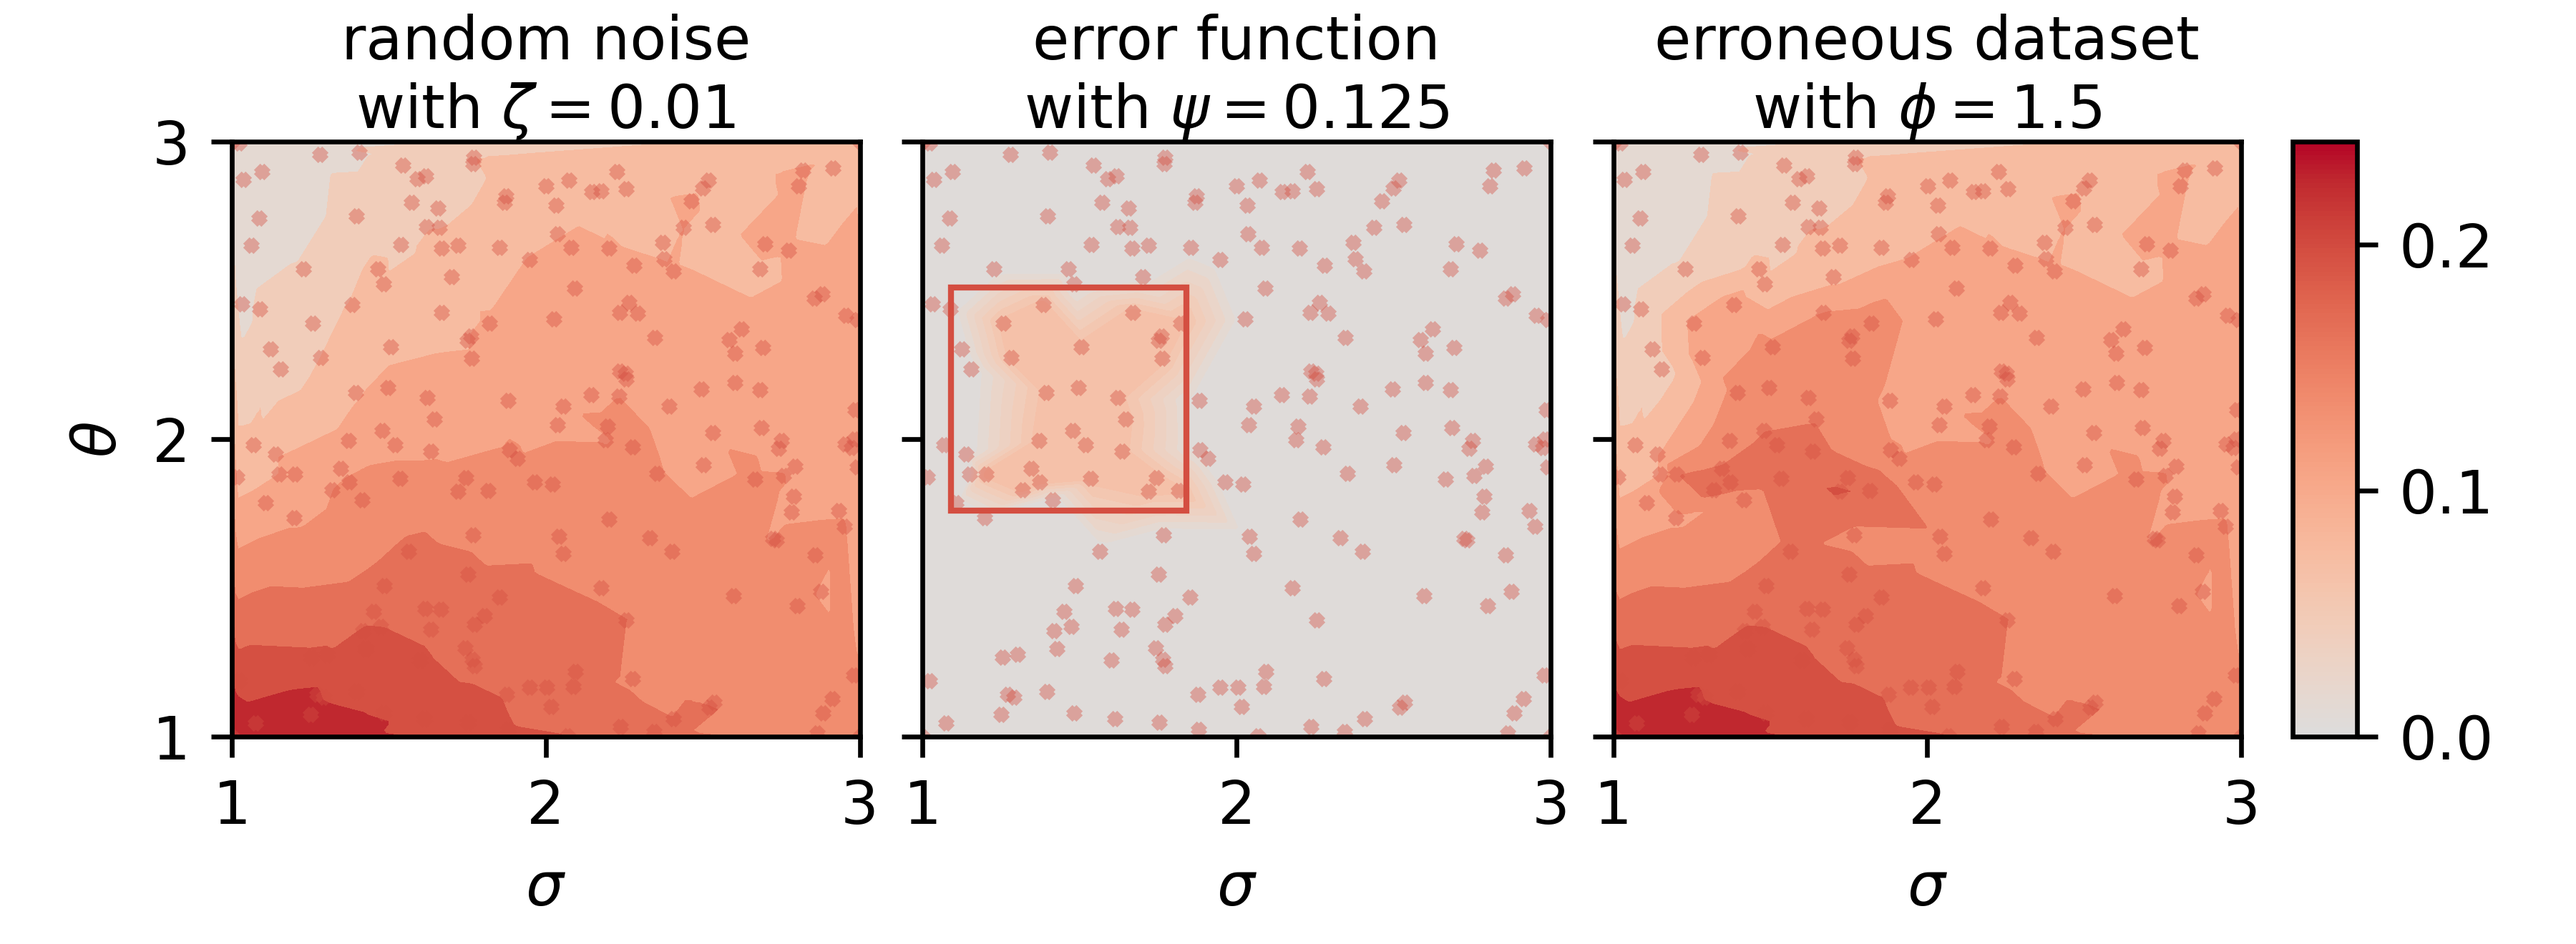
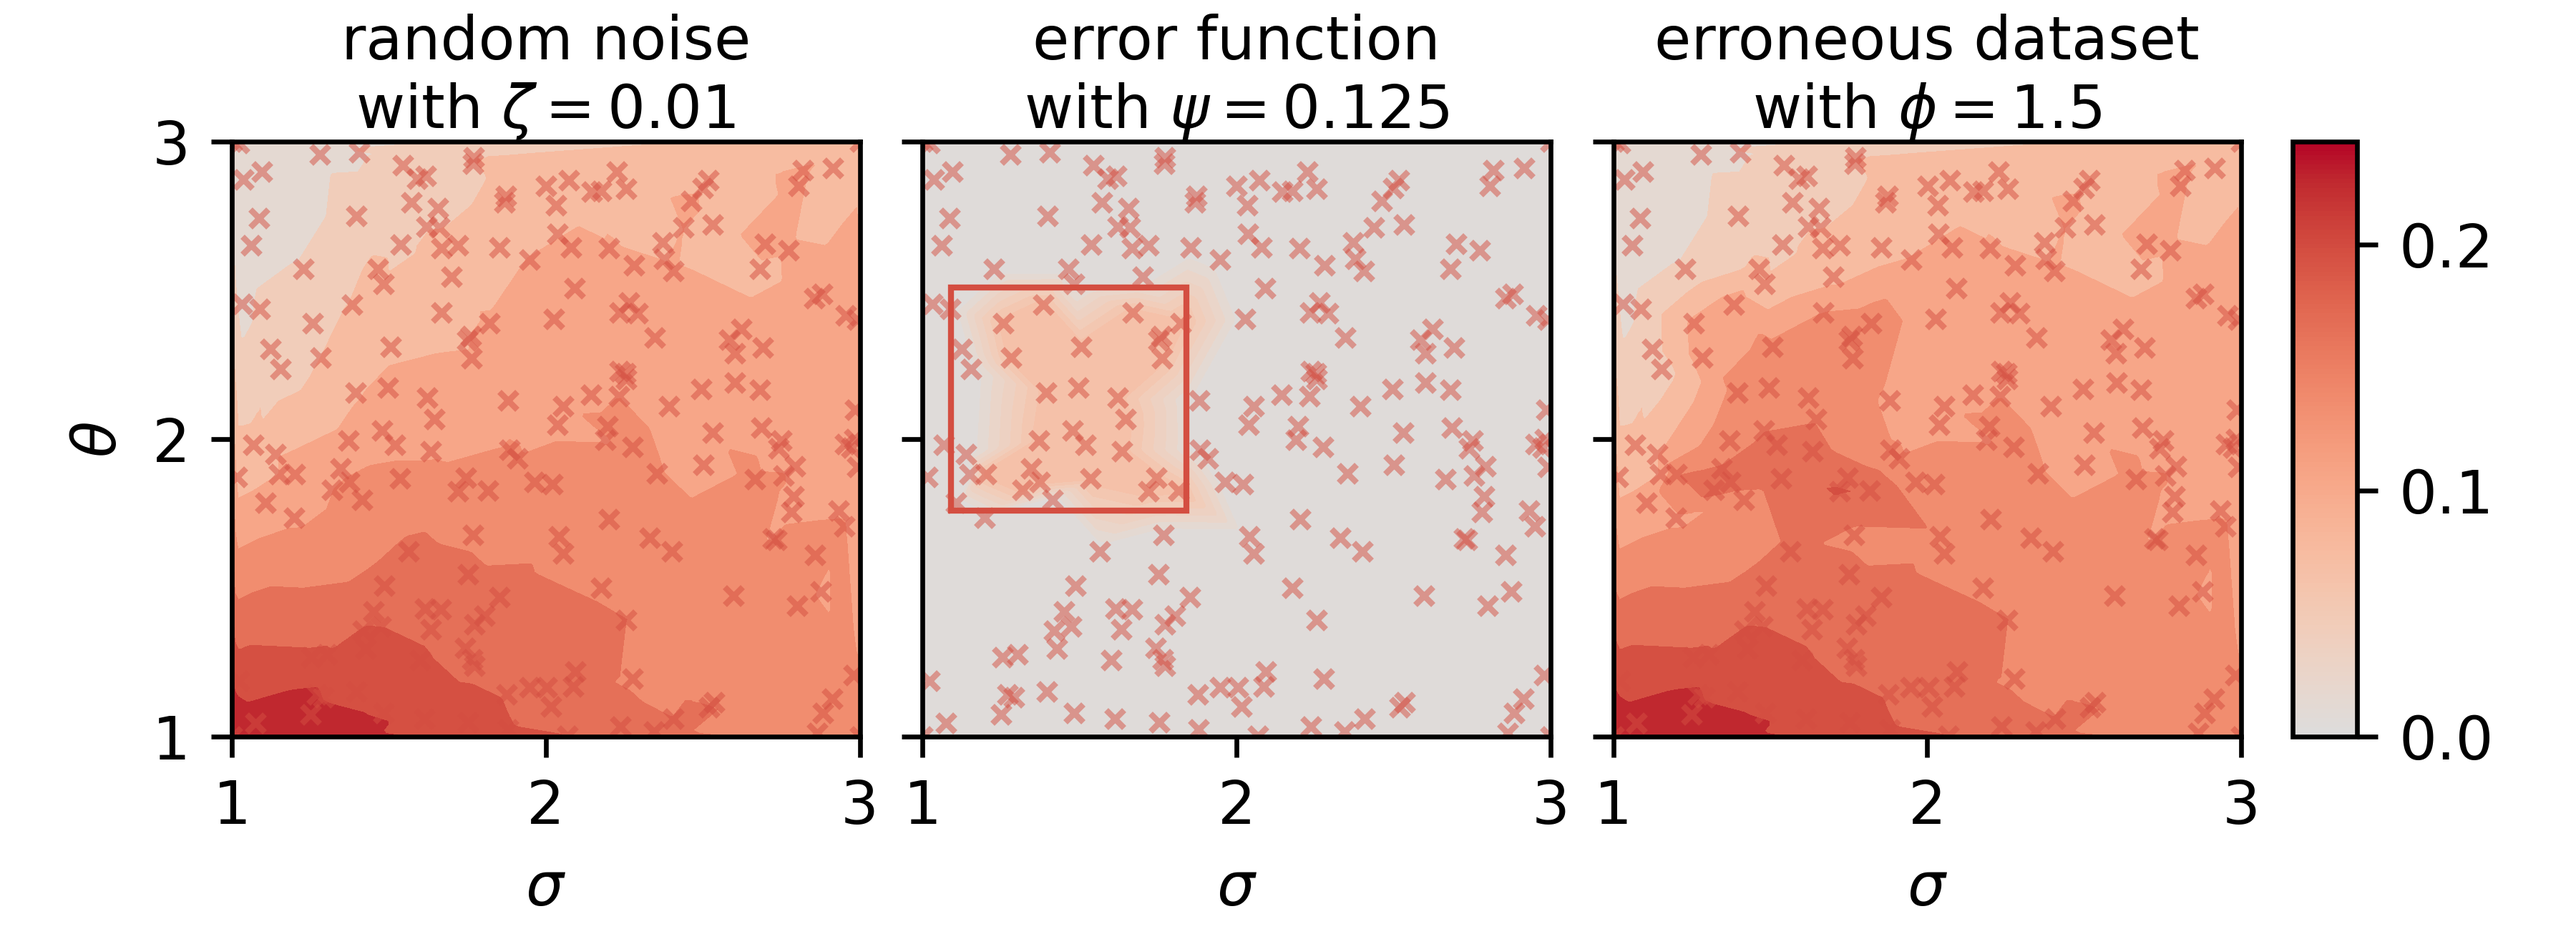
update figures and plots

diff --git a/general_visualizations/3-visualize-gridsearch.py b/general_visualizations/3-visualize-gridsearch.py
@@ -1,0 +1,116 @@
+import pandas as pd
+import numpy as np
+import matplotlib.pyplot as plt
+from matplotlib import ticker
+from matplotlib.colors import Normalize
+import seaborn as sns
+
+univariate_result_file = f'data/univariate/2_gridsearch_results/_results.csv'
+uni = pd.read_csv(univariate_result_file)
+
+multivariate_result_file = f'data/multivariate/2_gridsearch_results/_results.csv'
+multi = pd.read_csv(multivariate_result_file)
+
+result_figure = 'figures/experimental_setup/gridsearch_feynman.png'
+
+problemTypes = [('univariate', uni),('multivariate',multi)]
+
+
+
+datasets = np.unique(uni['EquationName'])
+lambda_values =  np.unique( uni['Lambda'])
+degree_values =  np.unique( uni['Degree'])
+alpha_values = np.unique( uni['Alpha'])
+max_interactions_values = np.unique( uni['MaxInteractions'])
+
+rmse_column = 'RMSE_Full'
+
+
+f, axis = plt.subplots(2,3, figsize=(6,3),  sharey=True, sharex=True, gridspec_kw={
+    'height_ratios': [1,1], 'width_ratios': [1,1,1]})
+plt.subplots_adjust(left=0.16, bottom=0.2, right=0.84, top=0.99, wspace=0.1, hspace=0.1)
+
+axisIndex = 0
+for (problemtype,df) in problemTypes:
+  ax = axis[axisIndex]
+  
+
+  df = df[df['Lambda'] < 1]
+  df = df[df['MaxInteractions'] == 3]
+
+
+  datasets = np.unique(df['EquationName'])
+  lambda_values =  np.unique( df['Lambda'])
+  degree_values =  np.unique( df['Degree'])
+  alpha_values = np.unique( df['Alpha'])
+  max_interactions_values = np.unique( df['MaxInteractions'])
+
+  rmse_column = 'RMSE_Full'
+
+  max_training_rmse = np.max(df['RMSE_Training'])
+  max_test_rmse = np.max(df['RMSE_Test'])
+  max_rmse = np.max(df['RMSE_Full'])
+
+  print(df)
+  df = pd.DataFrame(df)
+  df.loc[df['RMSE_Training'] == -1 ,'RMSE_Training'] = max_training_rmse
+  df.loc[df['RMSE_Test'] == -1 ,'RMSE_Test'] = max_test_rmse
+
+  df.loc[df['RMSE_Full'] == -1 ,'RMSE_Full'] = max_rmse
+
+
+  i = len(df.index)+1
+  for dataset in datasets:
+    for lambda_value in lambda_values:
+      for degree in degree_values:
+        for alpha_value in alpha_values:
+          for interaction_value in max_interactions_values:
+            if( len(df[ ((df['EquationName']==dataset) & 
+                    (df['Lambda']==lambda_value) & 
+                    (df['Degree']==degree) & 
+                    (df['Alpha']==alpha_value) & 
+                    (df['MaxInteractions']==interaction_value)) ]) == 0  ):
+              df.loc[i] =[dataset, None, 'No Path', degree, lambda_value, alpha_value, interaction_value, False,0, max_training_rmse, max_test_rmse, max_rmse]
+              i = i +1
+
+  rmseSums = df[['Lambda', 'Degree', 'Alpha', 'MaxInteractions',rmse_column ]
+                ].groupby(['Lambda', 'Degree', 'Alpha', 'MaxInteractions']).sum()
+
+  print(rmseSums.nsmallest(10, rmse_column))
+
+  min = np.min(rmseSums)
+  max = np.max(rmseSums)
+  norm = Normalize(vmin=min, vmax=max)
+  cmap = sns.color_palette("mako_r", as_cmap=True,)
+  cbar_ax = f.add_axes([.85, .62 - (axisIndex * 0.41), .02, .35])
+
+
+  col = 0
+  for Alpha in np.unique( df['Alpha']):
+    df_range = df[(df['Alpha']==Alpha)]
+
+    
+    pivot = df_range.pivot_table(index='Lambda', columns='Degree',
+                            values=rmse_column, aggfunc=np.sum)
+    hm = sns.heatmap(data=pivot, ax=ax[col], norm=norm, cmap=cmap, cbar_ax=cbar_ax , cbar_kws=dict(ticks=[round(val,2) for val in [min, min + (max-min)/2, max]]))
+
+
+    if(axisIndex == 1):
+      ax[col].set_xlabel(f'{ax[col].get_xlabel()}\nAlpha: {Alpha}')
+    else:
+      ax[col].set_xlabel(f'')
+
+    if(col > 0):
+      ax[col].set_ylabel("")
+    else:
+      ax[col].set_ylabel(f'{problemtype}\n{ax[col].get_ylabel()}')
+
+    col = col+1
+
+  axisIndex = axisIndex + 1
+
+  cbar_ax.set_ylabel('RMSE')
+  cbar_ax.yaxis.set_label_position('right') 
+
+plt.savefig(result_figure,dpi=600, transparent=True)
+plt.show()

diff --git a/general_visualizations/8-AUC-paper.py b/general_visualizations/8-AUC-paper.py
@@ -1,0 +1,58 @@
+import pandas as pd
+import numpy as np
+import matplotlib.pyplot as plt
+from matplotlib.colors import Normalize
+import seaborn as sns
+
+AUC_multi_file = f'data/multivariate/8-AUC_comparison.csv'
+AUC_uni_file = f'data/univariate/8-AUC_comparison.csv'
+result_figure1 = 'figures/experimental_setup/AUC-Heatmap.png'
+result_figure2 = 'figures/experimental_setup/AUC-Heatmap-largerSize.png'
+
+AUC_multi = pd.read_csv(AUC_multi_file)
+AUC_uni = pd.read_csv(AUC_uni_file)
+# df = df[df['ErrorScaling'] == 0.5]
+# df = df[df['DataSize'] == 200]
+
+
+combi = [(result_figure1, [(AUC_multi, 'multivariate', 200), (AUC_uni, 'univariate', 50)]), 
+            (result_figure2,[(AUC_multi, 'multivariate', 500), (AUC_uni, 'univariate', 100)])]
+    
+for (result_figure, results) in combi:
+  f, axis = plt.subplots(2,3,  sharex=True, sharey=True, figsize=(6,3.5))
+  plt.subplots_adjust(left=0.138, bottom=0.26, right=0.91, top=0.99, wspace=0.05, hspace=0.1)
+
+  norm = Normalize(vmin=0, vmax=1)
+  cmap = sns.color_palette("mako", as_cmap=True)
+  cbar_ax = f.add_axes([.92, .38, .02, .40])
+
+  rowIndex = 0
+  for (result,text, size) in results:
+    ax = axis[rowIndex]
+    data = result[result['DataSize'] == size]
+
+    colIndex = 0
+    for scaling in np.unique(data['ErrorScaling']):
+      df = data[data['ErrorScaling'] == scaling]
+      pivot = df.pivot_table(index='NoiseLevelPercentage', columns='ErrorWidthPercentage',
+                              values='AUC', aggfunc=np.sum)
+      hm = sns.heatmap(data=pivot, ax=ax[colIndex], norm=norm, cmap=cmap, cbar_ax=cbar_ax, annot=True
+                        , fmt='.2f', annot_kws={"size": 8}
+                        , cbar_kws=dict(ticks=[0,1]))
+
+      ax[colIndex].set_xlabel("")
+      ax[colIndex].set_ylabel("")
+      if((rowIndex == 1)):
+        ax[colIndex].set_xlabel(f'error function width $\psi$\nscaling $\phi = {scaling}$')
+      if(colIndex == 0):
+        ax[colIndex].set_ylabel(f'{text}\nnoise level $\zeta$')
+
+
+      colIndex = colIndex + 1
+
+    rowIndex= rowIndex+1
+
+  cbar_ax.set_xlabel(f'AUC')
+  cbar_ax.set_ylabel(f'AUC')
+  plt.savefig(result_figure,dpi=600, transparent=True)
+  plt.show()

diff --git a/general_visualizations/5-Feynman2DataGeneration.py b/general_visualizations/5-Feynman2DataGeneration.py
@@ -77,14 +77,14 @@ z4 = df1['target_with_error']
 # --------------------- plot uniform random input and linar approx ---------------------
 
 PlotContour(z1,x,y,ax[1],"", "linear approximated\nuniform random input",True, False)
-ax[1].scatter(y,x, s = 3, marker = "x", c =  sns.color_palette("coolwarm", n_colors=10).as_hex()[9], alpha =.4)
+ax[1].scatter(y,x, s = 9, marker = "x",linewidth = 1, c =  sns.color_palette("coolwarm", n_colors=10).as_hex()[9], alpha =.5)
 ax[1].set_xlabel("$\sigma$")
 
 
 # --------------------- plot Feynman2 with noise and error ---------------------
 
 PlotContour(z2,x,y,ax[2],"", "linear approximated\nwith $\zeta = 0.01$",True, False)
-ax[2].scatter(y,x, s = 3, marker = "x", c =  sns.color_palette("coolwarm", n_colors=10).as_hex()[9], alpha =.4)
+ax[2].scatter(y,x, s = 9, marker = "x",linewidth = 1, c =  sns.color_palette("coolwarm", n_colors=10).as_hex()[9], alpha =.5)
 
 cbar_ax = fig.add_axes([.89, .22, .025, .63])
 cbar = fig.colorbar(cm.ScalarMappable(norm=norm, cmap=cmap),cax = cbar_ax)

diff --git a/general_visualizations/6-Feynman2DataGeneration-errors.py b/general_visualizations/6-Feynman2DataGeneration-errors.py
@@ -62,9 +62,9 @@ ax[1].add_patch(Rectangle((1.09,1.76),0.75,0.75,
                     facecolor='none',
                     lw=1))
 
-ax[0].scatter(y,x, s = 3, marker = "x", c =  sns.color_palette("coolwarm", n_colors=10).as_hex()[9], alpha =.4)
-ax[1].scatter(y,x, s = 3, marker = "x", c =  sns.color_palette("coolwarm", n_colors=10).as_hex()[9], alpha =.4)
-ax[2].scatter(y,x, s = 3, marker = "x", c =  sns.color_palette("coolwarm", n_colors=10).as_hex()[9], alpha =.4)
+ax[0].scatter(y,x, s = 9, marker = "x",linewidth = 1, c =  sns.color_palette("coolwarm", n_colors=10).as_hex()[9], alpha =.5)
+ax[1].scatter(y,x, s = 9, marker = "x",linewidth = 1, c =  sns.color_palette("coolwarm", n_colors=10).as_hex()[9], alpha =.5)
+ax[2].scatter(y,x, s = 9, marker = "x",linewidth = 1, c =  sns.color_palette("coolwarm", n_colors=10).as_hex()[9], alpha =.5)
 
 cbar_ax = fig.add_axes([.89, .22, .025, .63])
 cbar = fig.colorbar(cm.ScalarMappable(norm=norm, cmap=cmap),cax = cbar_ax)
